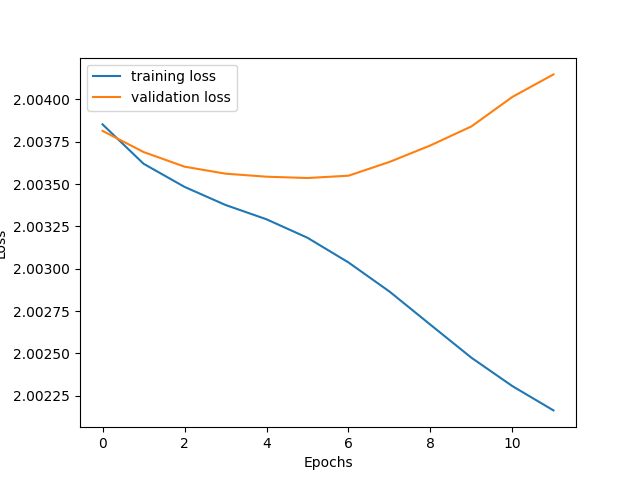
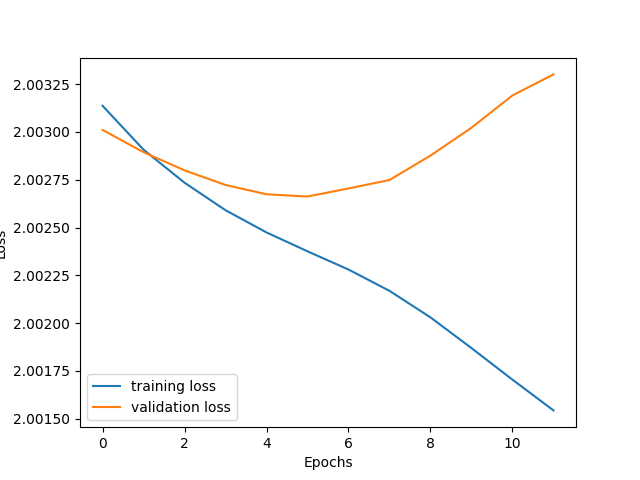
Added weight decay

diff --git a/src/networks/autoencoder_reward.py b/src/networks/autoencoder_reward.py
@@ -7,7 +7,7 @@ import torch.nn.functional as F
 import numpy as np
 from matplotlib import pyplot as plt
 class FireAutoencoder_reward(nn.Module):
-    def __init__(self, capacity, input_size, latent_dims, sigmoid=False, scale = 10e-5, temperature = 10):
+    def __init__(self, capacity, input_size, latent_dims, sigmoid=False, scale = 10e-5, temperature = 10, lr = 0.0001):
         super(FireAutoencoder_reward, self).__init__()
         self.c = capacity
         self.name = "AE_Reward"
@@ -19,8 +19,7 @@ class FireAutoencoder_reward(nn.Module):
         self.dim_2 = int((self.dim_1 - kernel_size + 2*padding)/2 + 1)
         self.is_sigmoid = sigmoid
         self.scale = scale
-        self.last_layer1 = None
-        self.last_layer2 = None
+        self.lr = lr
         # Encoder layers:
         self.conv1 = nn.Conv2d(in_channels=1, out_channels=self.c, kernel_size=kernel_size, stride=stride, padding=padding) # (64, 10, 10)
         self.conv2 = nn.Conv2d(in_channels=self.c, out_channels=self.c*2, kernel_size=kernel_size, stride=stride, padding=padding) # (128, 5, 5)
@@ -159,7 +158,7 @@ class FireAutoencoder_reward(nn.Module):
         plt.xlabel('Epochs')
         plt.ylabel('Loss')
         plt.legend()
-        plt.savefig(f"experiments/train_stats/{self.name}/loss_homo_2_sub20x20_latent={self.latent_dims}_capacity={self.c}_{epochs}_sigmoid={self.is_sigmoid}_{self.T}.png")
+        plt.savefig(f"experiments/train_stats/{self.name}/loss_homo_2_sub20x20_latent={self.latent_dims}_capacity={self.c}_{epochs}_sigmoid={self.is_sigmoid}_T={self.T}_lr={self.lr}.png")
 
         plt.ion()
         fig = plt.figure()
@@ -168,7 +167,7 @@ class FireAutoencoder_reward(nn.Module):
         plt.xlabel('Epochs')
         plt.ylabel('Loss')
         plt.legend()
-        plt.savefig(f"experiments/train_stats/{self.name}/reconstruction_loss_homo_2_sub20x20_latent={self.latent_dims}_capacity={self.c}_{epochs}_sigmoid={self.is_sigmoid}_{self.T}.png")
+        plt.savefig(f"experiments/train_stats/{self.name}/reconstruction_loss_homo_2_sub20x20_latent={self.latent_dims}_capacity={self.c}_{epochs}_sigmoid={self.is_sigmoid}_T={self.T}_lr={self.lr}.png")
 
         plt.ion()
         fig = plt.figure()
@@ -177,7 +176,7 @@ class FireAutoencoder_reward(nn.Module):
         plt.xlabel('Epochs')
         plt.ylabel('Loss')
         plt.legend()
-        plt.savefig(f"experiments/train_stats/{self.name}/regression_loss_homo_2_sub20x20_latent={self.latent_dims}_capacity={self.c}_{epochs}_sigmoid={self.is_sigmoid}_{self.T}.png")
+        plt.savefig(f"experiments/train_stats/{self.name}/regression_loss_homo_2_sub20x20_latent={self.latent_dims}_capacity={self.c}_{epochs}_sigmoid={self.is_sigmoid}_T={self.T}_lr={self.lr}.png")
 
     def calc_test_loss(self, output, images, r):
         return self.loss(output, images, r)

diff --git a/src/train_ae.py b/src/train_ae.py
@@ -47,8 +47,8 @@ nets = {
     "AE": FireAutoencoder,
     "AE_Reward": FireAutoencoder_reward,
 }
-net = nets[network](capacity, input_size, latent_dims, sigmoid=sigmoid, temperature=temperature)
-optimizer = torch.optim.Adam(net.parameters(), lr = lr)
+net = nets[network](capacity, input_size, latent_dims, sigmoid=sigmoid, temperature=temperature, lr = lr)
+optimizer = torch.optim.Adam(net.parameters(), lr = lr, weight_decay=0.005)
 # Data loader is built
 train_loader = torch.utils.data.DataLoader(train_dataset, batch_size=16, shuffle=False)
 validation_loader = torch.utils.data.DataLoader(validation_dataset, batch_size=16, shuffle=False)
